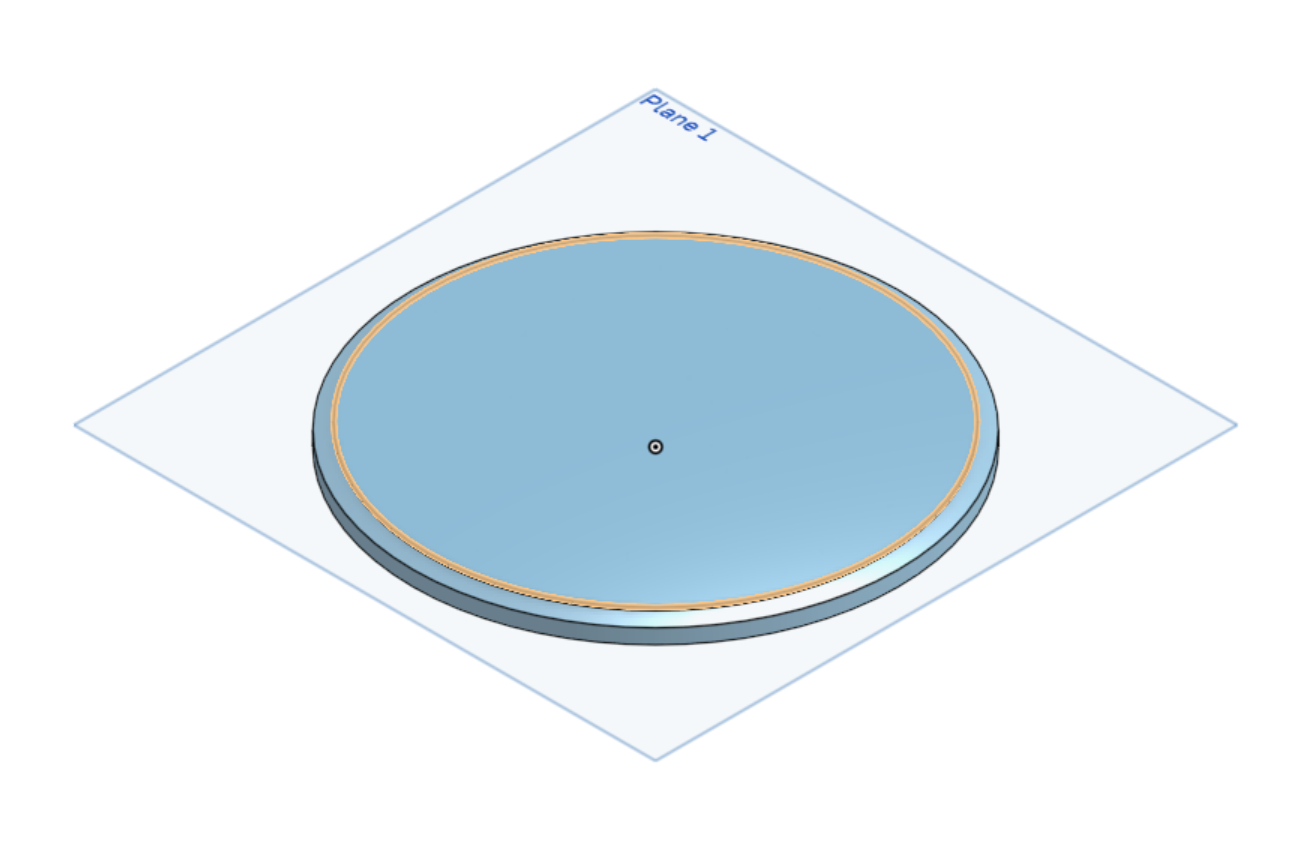
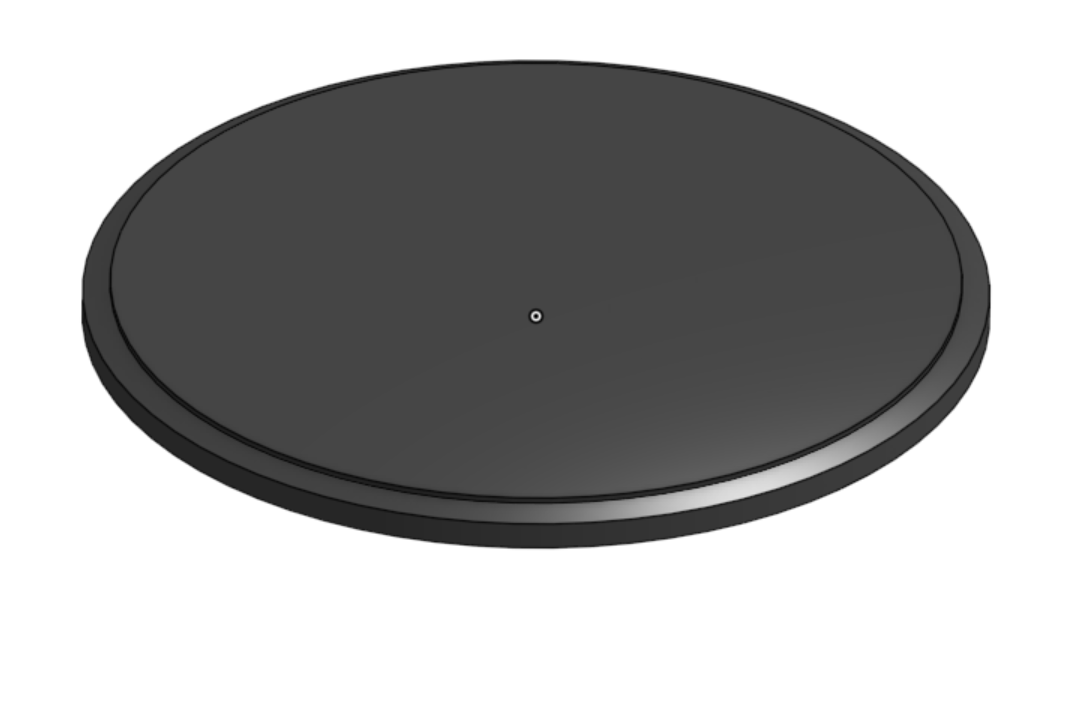
update to week 2

diff --git a/02_2D/index.html b/02_2D/index.html
@@ -68,27 +68,39 @@
     </div>
   </div>
   <div class="col-sm-12">
-    <p><br>For the assignment, I chose to model my spinning desktop organizer. So, I measured and split the design into 4 different segments: the base, the transparent panel, the spinning part/structure, and the top (the handle that is used to spin the desktop organizer).<br></p>
+    <p><br>For the assignment, I chose to model my spinning desktop organizer. So, I measured and split the design into 4 different segments: the base, the transparent panels, the spinning part/structure, and the top (the knob that is used to spin the desktop organizer).<br></p>
   </div>
+  <div class="row row-m-t">
+    <div class="col-lg-6" position class="center">
+        <img src="base_desktop_organizer.png" class="img-responsive img-square margin" style="display:inline" alt="Base for a Spinning Desktop Organizer" width="400" height="400">
+    </div >
+    <div class="col-sm-6">  
+      <img src="structure_desktop_organizer.png" class="img-responsive img-square margin" style="display:inline" alt="Structure of the Spinning Desktop Organizer" width="400" height="400">
+    </div>
+  </div>
+  <div class="row row-m-t">
+    <div class="col-sm-6">  
+      <img src="transparent_panels.png" class="img-responsive img-square margin" style="display:inline" alt="Transparent Panels" width="400" height="400">
+    </div>
+    <div class="col-sm-6">  
+      <img src="spinning_knob.png" class="img-responsive img-square margin" style="display:inline" alt="Knob that is used to spin the Assembly" width="400" height="400">
+    </div>
+  </div> 
+  <div class="row row-m-t">
+    <div class="col-lg-6" position class="center">
+        <img src="model_assembly.png" class="img-responsive img-square margin" style="display:inline" alt="Spinning Desktop Organizer Asssembly" width="400" height="400">
+    </div >
+    <div class="col-lg-6" position class="center">
+        <img src="exploded_desktop_organizer.png" class="img-responsive img-square margin" style="display:inline" alt="Exploded View of Spinning Desktop Organizer Asssembly" width="400" height="400">
+    </div >
+  </div>   
   <div class="col-sm-12">
     <p><br>On the base, I started with a circle sketch, extruded it, offset a plane for another sketch to form a loft and then create a third sketch from the loft for an extrude. <br></p>
-    <img src="base_desktop_organizer.png" class="img-responsive img-square margin" style="display:inline" alt="Base for a Spinning Desktop Organizer" width="800" height="800">
-  </div>  
-
-  <h3 class="margin"><br>Final Project Idea Proposals</h3>
-  <div class="col-sm-12">
-    <pr><br>I currently have three ideas for my final project. These are listed below:<br><br></pr>
-  <div class="row">
-    <div class="col-sm-4">
-      <p><strong>An automated robot that gets utensils/tools for me:</strong><br><br>This robot with the click of a button will get what the person is in need of when they are preoccuppied. This would allow that same person to not have to go several blocks or stories to grab just one object. The robot will have an arm (or something to grab the tool), sensors (to navigate) and a motor.</p>
-    </div>
-    <div class="col-sm-4"> 
-      <p><strong>A drone that will take scenery shots from a distance:</strong><br><br>I have always wanted to take scenery shots from above without having to buy a drone or actually go onto such a place out of fear of heights. The user can control this drone through a device (maybe a laptop or a phone). There will need to be a motor that can change speed so the user can determine how much he or she wants to elevate or lower the drone. Finaly, it needs to have a camera to show what you are filming.
-    </div>
-    <div class="col-sm-4"> 
-      <p><strong>A drone that will clean multiple surfaces:</strong><br><br>Lets say you have a dirty surface (ie. grill, desk, floor). This drone would only need to be a placed on a surface to work its charm. On the places it goes the drone would spurt out soap that it would later scrub and water. With that there will be no need for tedious effort for cleaning.</p>
-    </div>
-  </div>  
+    <p><br>Next came the structure of the model, I started with a circle sketch, extruded it, offset another circle to make sure that none of the edges of the ridges for the structure were going to touch outside of the circle. After that I modeled the dividers with a hexagon shape and series of sketches to then extrude it.<br></p>
+    <p><br>The third piece I modeled was the transparent panels. Using the extrude of the extrude from the dividers, I created a sketch on the surface of the structure of the model to outline the transparent panels.<br></p>
+    <p><br>For the final piece, the knob that is used to spin the desktop organizer. I created a sketch ontop of the dividers. I added more cylindrical shapes, a loft and finally a sphere, where the user can put their hand to turn the desktop top organizer.<br></p>
+    <p><br>After all the modeling, I added dark gray and black transparent color to the organizer. Finally, I brought the parts to the assembly, where I attached the base with the structure for the divider with a revolute mate and the panels with the knob onto the previous attachment.<br></p>
+  </div>    
 </div>
 
 <!-- Footer -->
